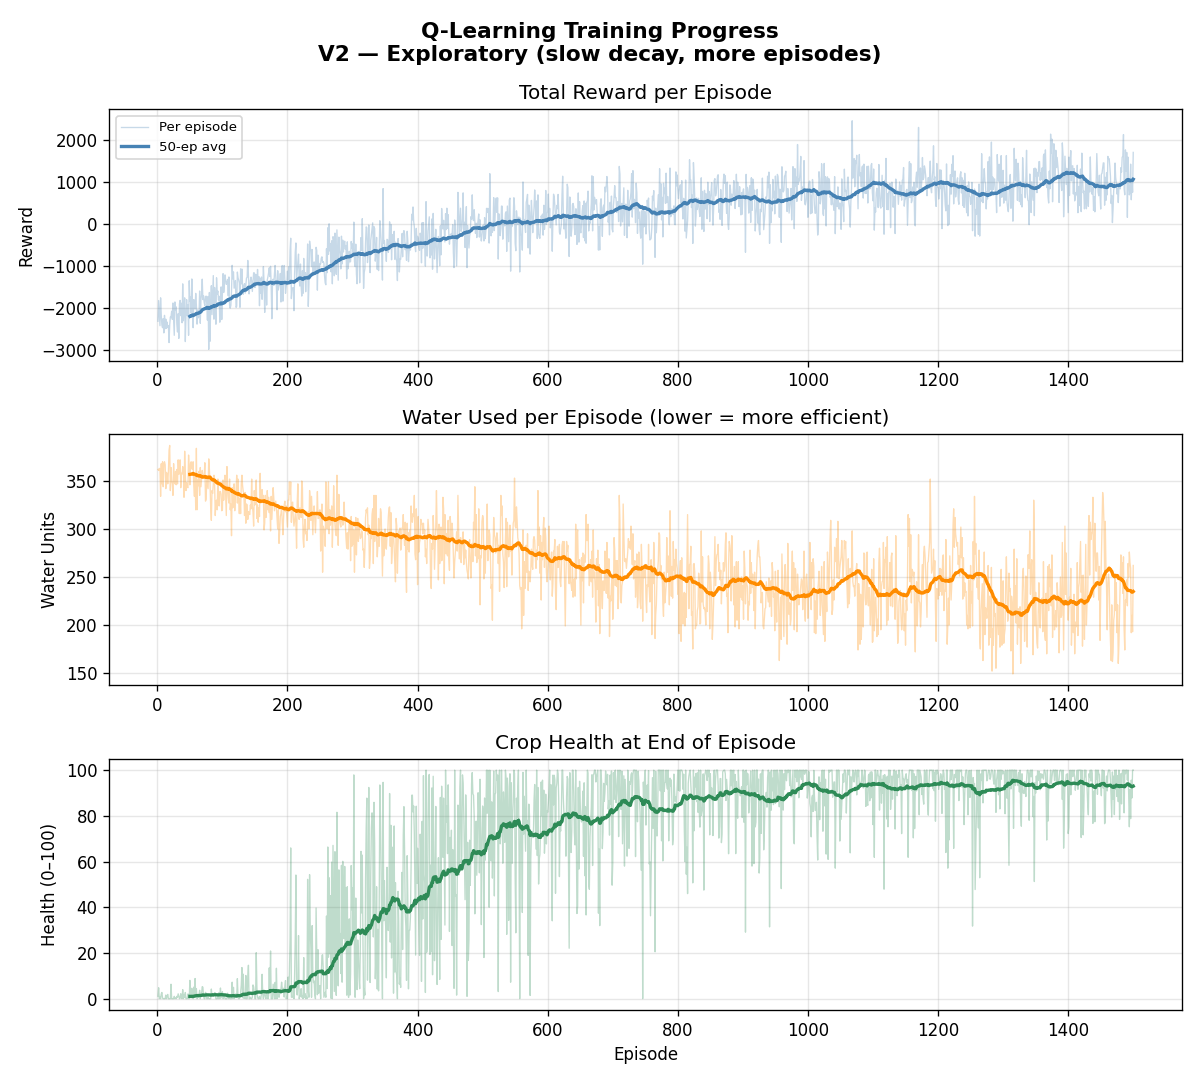
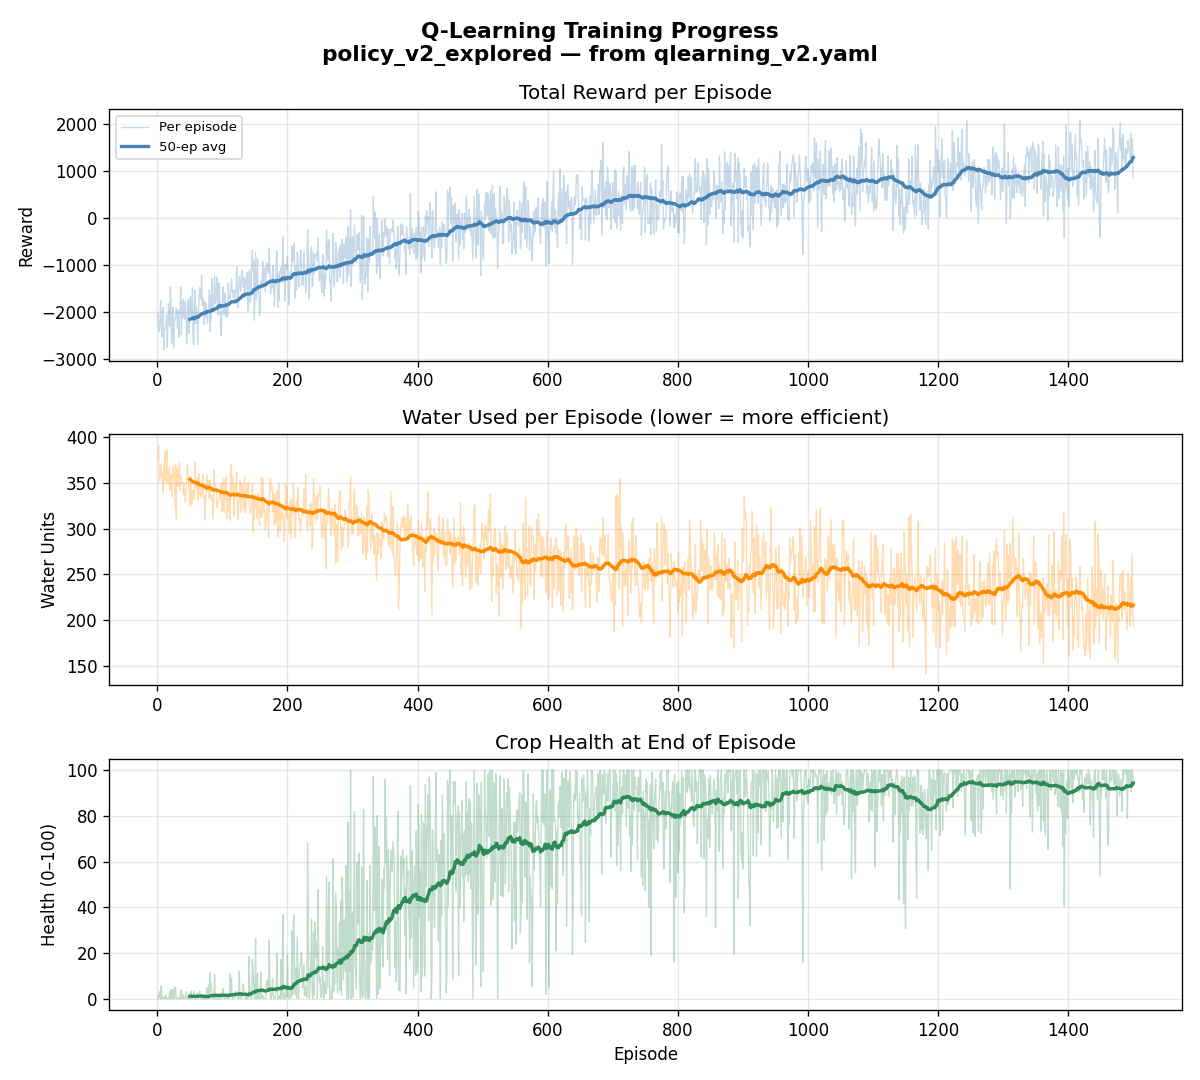
initial Q-Learning implementation with two policy variants

diff --git a/train.py b/train.py
@@ -1,5 +1,14 @@
+import argparse
+import csv
+import json
+import os
+import uuid
 import numpy as np
+import matplotlib
+matplotlib.use("Agg")          # non-interactive backend — safe for headless runs
 import matplotlib.pyplot as plt
+import yaml
+
 from environment import IrrigationEnv
 from agent import QLearningAgent
 
@@ -8,7 +17,7 @@ def moving_average(data, window=50):
     return np.convolve(data, np.ones(window) / window, mode="valid")
 
 
-# Pre-defined training configurations
+# Pre-defined training configurations (kept for backward-compat with main.py)
 POLICY_CONFIGS = {
     "policy_v1": {
         "label":         "V1 — Conservative (fast decay, fewer episodes)",
@@ -17,49 +26,99 @@ POLICY_CONFIGS = {
         "gamma":         0.95,
         "epsilon":       1.0,
         "epsilon_min":   0.05,
-        "epsilon_decay": 0.995,   # epsilon reaches ~0.05 around ep 600
+        "epsilon_decay": 0.995,
         "save_path":     "policy_v1.pkl",
         "plot_path":     "training_v1.png",
+        "log_csv":       "results_v1.csv",
+        "log_json":      "log.json",
+        "run_id":        "v1",
     },
     "policy_v2_explored": {
         "label":         "V2 — Exploratory (slow decay, more episodes)",
         "n_episodes":    1500,
-        "alpha":         0.08,    # smaller lr -> more stable convergence
-        "gamma":         0.97,    # values future rewards more
+        "alpha":         0.08,
+        "gamma":         0.97,
         "epsilon":       1.0,
-        "epsilon_min":   0.02,    # explore even longer before converging
-        "epsilon_decay": 0.998,   # slower decay -> richer exploration
+        "epsilon_min":   0.02,
+        "epsilon_decay": 0.998,
         "save_path":     "policy_v2_explored.pkl",
         "plot_path":     "training_v2_explored.png",
+        "log_csv":       "results_v2.csv",
+        "log_json":      "log.json",
+        "run_id":        "v2",
     },
 }
 
 
-def train(n_episodes=1000, show_plot=True, save_path="q_table.pkl",
-          plot_path="training_progress.png", label="Training", **agent_kwargs):
+# ------------------------------------------------------------------ #
+#  Experiment logging                                                  #
+# ------------------------------------------------------------------ #
+
+def _log_results_csv(path, row: dict):
+    """Append one row to a CSV experiment log, creating headers if needed."""
+    file_exists = os.path.isfile(path)
+    with open(path, "a", newline="") as f:
+        writer = csv.DictWriter(f, fieldnames=list(row.keys()))
+        if not file_exists:
+            writer.writeheader()
+        writer.writerow(row)
+    print(f"  Experiment log updated: {path}")
+
+
+def _log_results_json(path, entry: dict):
+    """Append/update a JSON log file with a new experiment entry."""
+    data = []
+    if os.path.isfile(path):
+        with open(path, "r") as f:
+            try:
+                data = json.load(f)
+            except json.JSONDecodeError:
+                data = []
+    data.append(entry)
+    with open(path, "w") as f:
+        json.dump(data, f, indent=2)
+    print(f"  JSON log updated: {path}")
+
+
+# ------------------------------------------------------------------ #
+#  Core training loop                                                  #
+# ------------------------------------------------------------------ #
+
+def train(n_episodes=1000, show_plot=False, save_path="q_table.pkl",
+          plot_path="training_progress.png", label="Training",
+          log_csv="results.csv", log_json="log.json", run_id=None,
+          **agent_kwargs):
+
     env   = IrrigationEnv()
+    alpha         = agent_kwargs.get("alpha", 0.1)
+    gamma         = agent_kwargs.get("gamma", 0.95)
+    epsilon       = agent_kwargs.get("epsilon", 1.0)
+    epsilon_min   = agent_kwargs.get("epsilon_min", 0.05)
+    epsilon_decay = agent_kwargs.get("epsilon_decay", 0.995)
+
     agent = QLearningAgent(
         n_states=env.n_states,
         n_actions=env.n_actions,
-        alpha=agent_kwargs.get("alpha", 0.1),
-        gamma=agent_kwargs.get("gamma", 0.95),
-        epsilon=agent_kwargs.get("epsilon", 1.0),
-        epsilon_min=agent_kwargs.get("epsilon_min", 0.05),
-        epsilon_decay=agent_kwargs.get("epsilon_decay", 0.995),
+        alpha=alpha,
+        gamma=gamma,
+        epsilon=epsilon,
+        epsilon_min=epsilon_min,
+        epsilon_decay=epsilon_decay,
     )
 
-    episode_rewards   = []
-    episode_water     = []
-    episode_health    = []
+    episode_rewards = []
+    episode_water   = []
+    episode_health  = []
 
     print("=" * 55)
     print(f"   {label}")
+    print(f"   Run ID : {run_id or 'unset'}")
     print("=" * 55)
 
     for ep in range(1, n_episodes + 1):
-        state      = env.reset()
+        state        = env.reset()
         total_reward = 0.0
-        done       = False
+        done         = False
 
         while not done:
             action               = agent.choose_action(state)
@@ -87,17 +146,47 @@ def train(n_episodes=1000, show_plot=True, save_path="q_table.pkl",
     print("=" * 55)
     print("  Training complete.")
     agent.save(save_path)
-    # Also keep the generic q_table.pkl pointing to the latest trained policy
-    agent.save("q_table.pkl")
+    agent.save("q_table.pkl")   # keep generic pointer to latest policy
 
+    # ---- Compute summary stats ----
+    avg_reward = round(float(np.mean(episode_rewards)), 4)
+    avg_water  = round(float(np.mean(episode_water)), 4)
+    avg_health = round(float(np.mean(episode_health)), 4)
+
+    # ---- Write CSV log ----
+    csv_row = {
+        "run_id":        run_id or str(uuid.uuid4())[:8],
+        "episodes":      n_episodes,
+        "avg_reward":    avg_reward,
+        "avg_water_used": avg_water,
+        "avg_crop_health": avg_health,
+        "epsilon":       round(epsilon, 4),
+        "epsilon_min":   round(epsilon_min, 4),
+        "epsilon_decay": round(epsilon_decay, 4),
+        "alpha":         round(alpha, 4),
+        "gamma":         round(gamma, 4),
+        "policy_file":   save_path,
+    }
+    _log_results_csv(log_csv, csv_row)
+
+    # ---- Write JSON log ----
+    json_entry = {**csv_row, "label": label}
+    _log_results_json(log_json, json_entry)
+
+    # ---- Plot ----
+    _plot_training(episode_rewards, episode_water, episode_health, n_episodes,
+                   title=label, save_path=plot_path)
     if show_plot:
-        _plot_training(episode_rewards, episode_water, episode_health, n_episodes,
-                       title=label, save_path=plot_path)
+        plt.show()
 
     return agent, episode_rewards, episode_water, episode_health
 
 
-def train_all_policies(show_plot=True):
+# ------------------------------------------------------------------ #
+#  Train all pre-defined policies                                      #
+# ------------------------------------------------------------------ #
+
+def train_all_policies(show_plot=False):
     """Train every config in POLICY_CONFIGS and save each to its own file."""
     results = {}
     for key, cfg in POLICY_CONFIGS.items():
@@ -110,6 +199,9 @@ def train_all_policies(show_plot=True):
             save_path     = cfg["save_path"],
             plot_path     = cfg["plot_path"],
             label         = cfg["label"],
+            log_csv       = cfg.get("log_csv", "results.csv"),
+            log_json      = cfg.get("log_json", "log.json"),
+            run_id        = cfg.get("run_id"),
             alpha         = cfg["alpha"],
             gamma         = cfg["gamma"],
             epsilon       = cfg["epsilon"],
@@ -120,6 +212,43 @@ def train_all_policies(show_plot=True):
     print(f"\n  Saved policies: {', '.join(cfg['save_path'] for cfg in POLICY_CONFIGS.values())}")
     return results
 
+
+# ------------------------------------------------------------------ #
+#  YAML-based training (for reproducibility)                          #
+# ------------------------------------------------------------------ #
+
+def train_from_config(config_path: str, show_plot=False):
+    """Load a YAML config and run training. Core MLOps reproducibility entry-point."""
+    if not os.path.isfile(config_path):
+        raise FileNotFoundError(f"Config file not found: {config_path}")
+
+    with open(config_path, "r") as f:
+        cfg = yaml.safe_load(f)
+
+    print(f"\n  Loaded config: {config_path}")
+    label = f"{cfg.get('policy', 'experiment')} — from {os.path.basename(config_path)}"
+
+    agent, rewards, water, health = train(
+        n_episodes    = cfg.get("n_episodes", 1000),
+        show_plot     = show_plot,
+        save_path     = cfg.get("save_path", "q_table.pkl"),
+        plot_path     = cfg.get("plot_path", "training_progress.png"),
+        label         = label,
+        log_csv       = cfg.get("log_csv", "results.csv"),
+        log_json      = cfg.get("log_json", "log.json"),
+        run_id        = cfg.get("run_id"),
+        alpha         = cfg.get("alpha", 0.1),
+        gamma         = cfg.get("gamma", 0.95),
+        epsilon       = cfg.get("epsilon", 1.0),
+        epsilon_min   = cfg.get("epsilon_min", 0.05),
+        epsilon_decay = cfg.get("epsilon_decay", 0.995),
+    )
+    return agent, rewards, water, health
+
+
+# ------------------------------------------------------------------ #
+#  Plot helper                                                         #
+# ------------------------------------------------------------------ #
 
 def _plot_training(rewards, water, health, n_episodes,
                    title="Training Progress", save_path="training_progress.png"):
@@ -161,8 +290,37 @@ def _plot_training(rewards, water, health, n_episodes,
     plt.tight_layout()
     plt.savefig(save_path, dpi=120)
     print(f"  Plot saved: {save_path}")
-    plt.show()
+    plt.close(fig)
 
+
+# ------------------------------------------------------------------ #
+#  CLI entry-point                                                     #
+# ------------------------------------------------------------------ #
 
 if __name__ == "__main__":
-    train_all_policies(show_plot=True)
+    parser = argparse.ArgumentParser(description="Train Q-Learning agent for Smart Irrigation Controller")
+    parser.add_argument(
+        "--config",
+        type=str,
+        default=None,
+        help="Path to a YAML config file, e.g. qlearning_v1.yaml"
+    )
+    parser.add_argument(
+        "--all",
+        action="store_true",
+        help="Train all pre-defined policy configurations"
+    )
+    parser.add_argument(
+        "--show-plot",
+        action="store_true",
+        help="Display training plots interactively (default: save only)"
+    )
+    args = parser.parse_args()
+
+    if args.config:
+        train_from_config(args.config, show_plot=args.show_plot)
+    elif args.all:
+        train_all_policies(show_plot=args.show_plot)
+    else:
+        # Default: train all policies
+        train_all_policies(show_plot=args.show_plot)